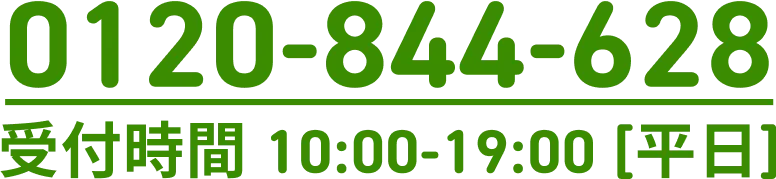
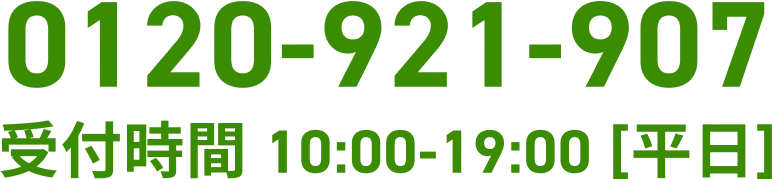
テキスト修正

diff --git a/assets/css/hoken/style.css b/assets/css/hoken/style.css
@@ -662,7 +662,7 @@ summary::-webkit-details-marker {
   display: grid;
   row-gap: 10px;
   inline-size: fit-content;
-  margin-inline: auto;
+  margin-inline-end: auto;
   font-size: calc(14 * var(--rem-ratio));
   font-weight: var(--font-normal);
 }

diff --git a/templates/hoken/footer.php b/templates/hoken/footer.php
@@ -13,20 +13,20 @@ if (!defined('ABSPATH')) exit;
       <h2 class="l-section__title js-fade">お問い合わせ</h2>
       <div class="l-footer js-fade">
         <div class="l-footer__content">
-          <a href="tel:0120844628" class="l-footer__link">
+          <a href="tel:0120-921-907" class="l-footer__link">
             <div class="l-footer__icon"><img src="<?php echo get_template_directory_uri(); ?>/assets/images/hoken/tel-icon.webp" width="190" height="206" alt="電話のアイコン" /></div>
-            <p><img src="<?php echo get_template_directory_uri(); ?>/assets/images/hoken/tel-time.webp" width="776" height="179" alt="0120-844-628 受付時間 10:00-19:00 [平日]" /></p>
+            <p><img src="<?php echo get_template_directory_uri(); ?>/assets/images/hoken/tel-time.webp" width="776" height="179" alt="0120-921-907 受付時間 10:00-19:00 [平日]" /></p>
           </a>
-          <p class="l-footer__stop-text">配信停止をご希望の場合は<a href="" class="l-section__link" target="_blank" rel="noopener">こちら</a>からお手続きください。</p>
+          <p class="l-footer__stop-text">配信停止をご希望の場合は<a href="https://form.run/@project-planning-xDzhW6pGGYHG6JOD0lI2" class="l-section__link" target="_blank" rel="noopener">こちら</a>からお手続きください。</p>
         </div>
         <div class="l-footer__info">
-          <p class="l-footer__info-bold">株式会社フィナンシャル・エージェンシー</p>
-          <p>〒150-0013 東京都渋谷区恵比寿１丁目19-19<br />恵比寿ビジネスタワー 16F</p>
+          <p class="l-footer__info-bold">ディーニーズ株式会社</p>
+          <p>〒144-0051<br />東京都大田区西蒲田7-25-7&emsp;グレワンビル</p>
         </div>
-        <p class="l-footer__approval-number">承認番号：xxxxx</p>
+        <p class="l-footer__approval-number">【D50187】</p>
       </div>
     </div>
-    <p class="l-footer__copyright js-fade">&copy; FINANCIAL AGENCY, Inc.</p>
+    <p class="l-footer__copyright js-fade">Copyright &copy; 2002-2025 Dneeds CO., LTD.</p>
   </footer>
 
   </main>

diff --git a/page-templates/page-hoken.php b/page-templates/page-hoken.php
@@ -163,7 +163,7 @@ get_template_part('templates/hoken/header');
         </div>
         <div class="l-estimate__cta js-fade">
           <p class="l-estimate__message">お気軽にご相談ください</p>
-          <a href="https://form.run/@project-planning-resources-X7hcSx5WtYPOTXxvwTnM" target="_blank" rel="noopener" class="l-estimate__button">
+          <a href="https://form.run/@teleshop" target="_blank" rel="noopener" class="l-estimate__button">
             <p class="l-estimate__price"><img src="<?php echo get_template_directory_uri(); ?>/assets/images/hoken/yen0.webp" width="185" height="132" alt="¥0" /></p>
             <p class="l-estimate__button-text">見積<small class="l-estimate__price-small">を</small>希望する</p>
           </a>
